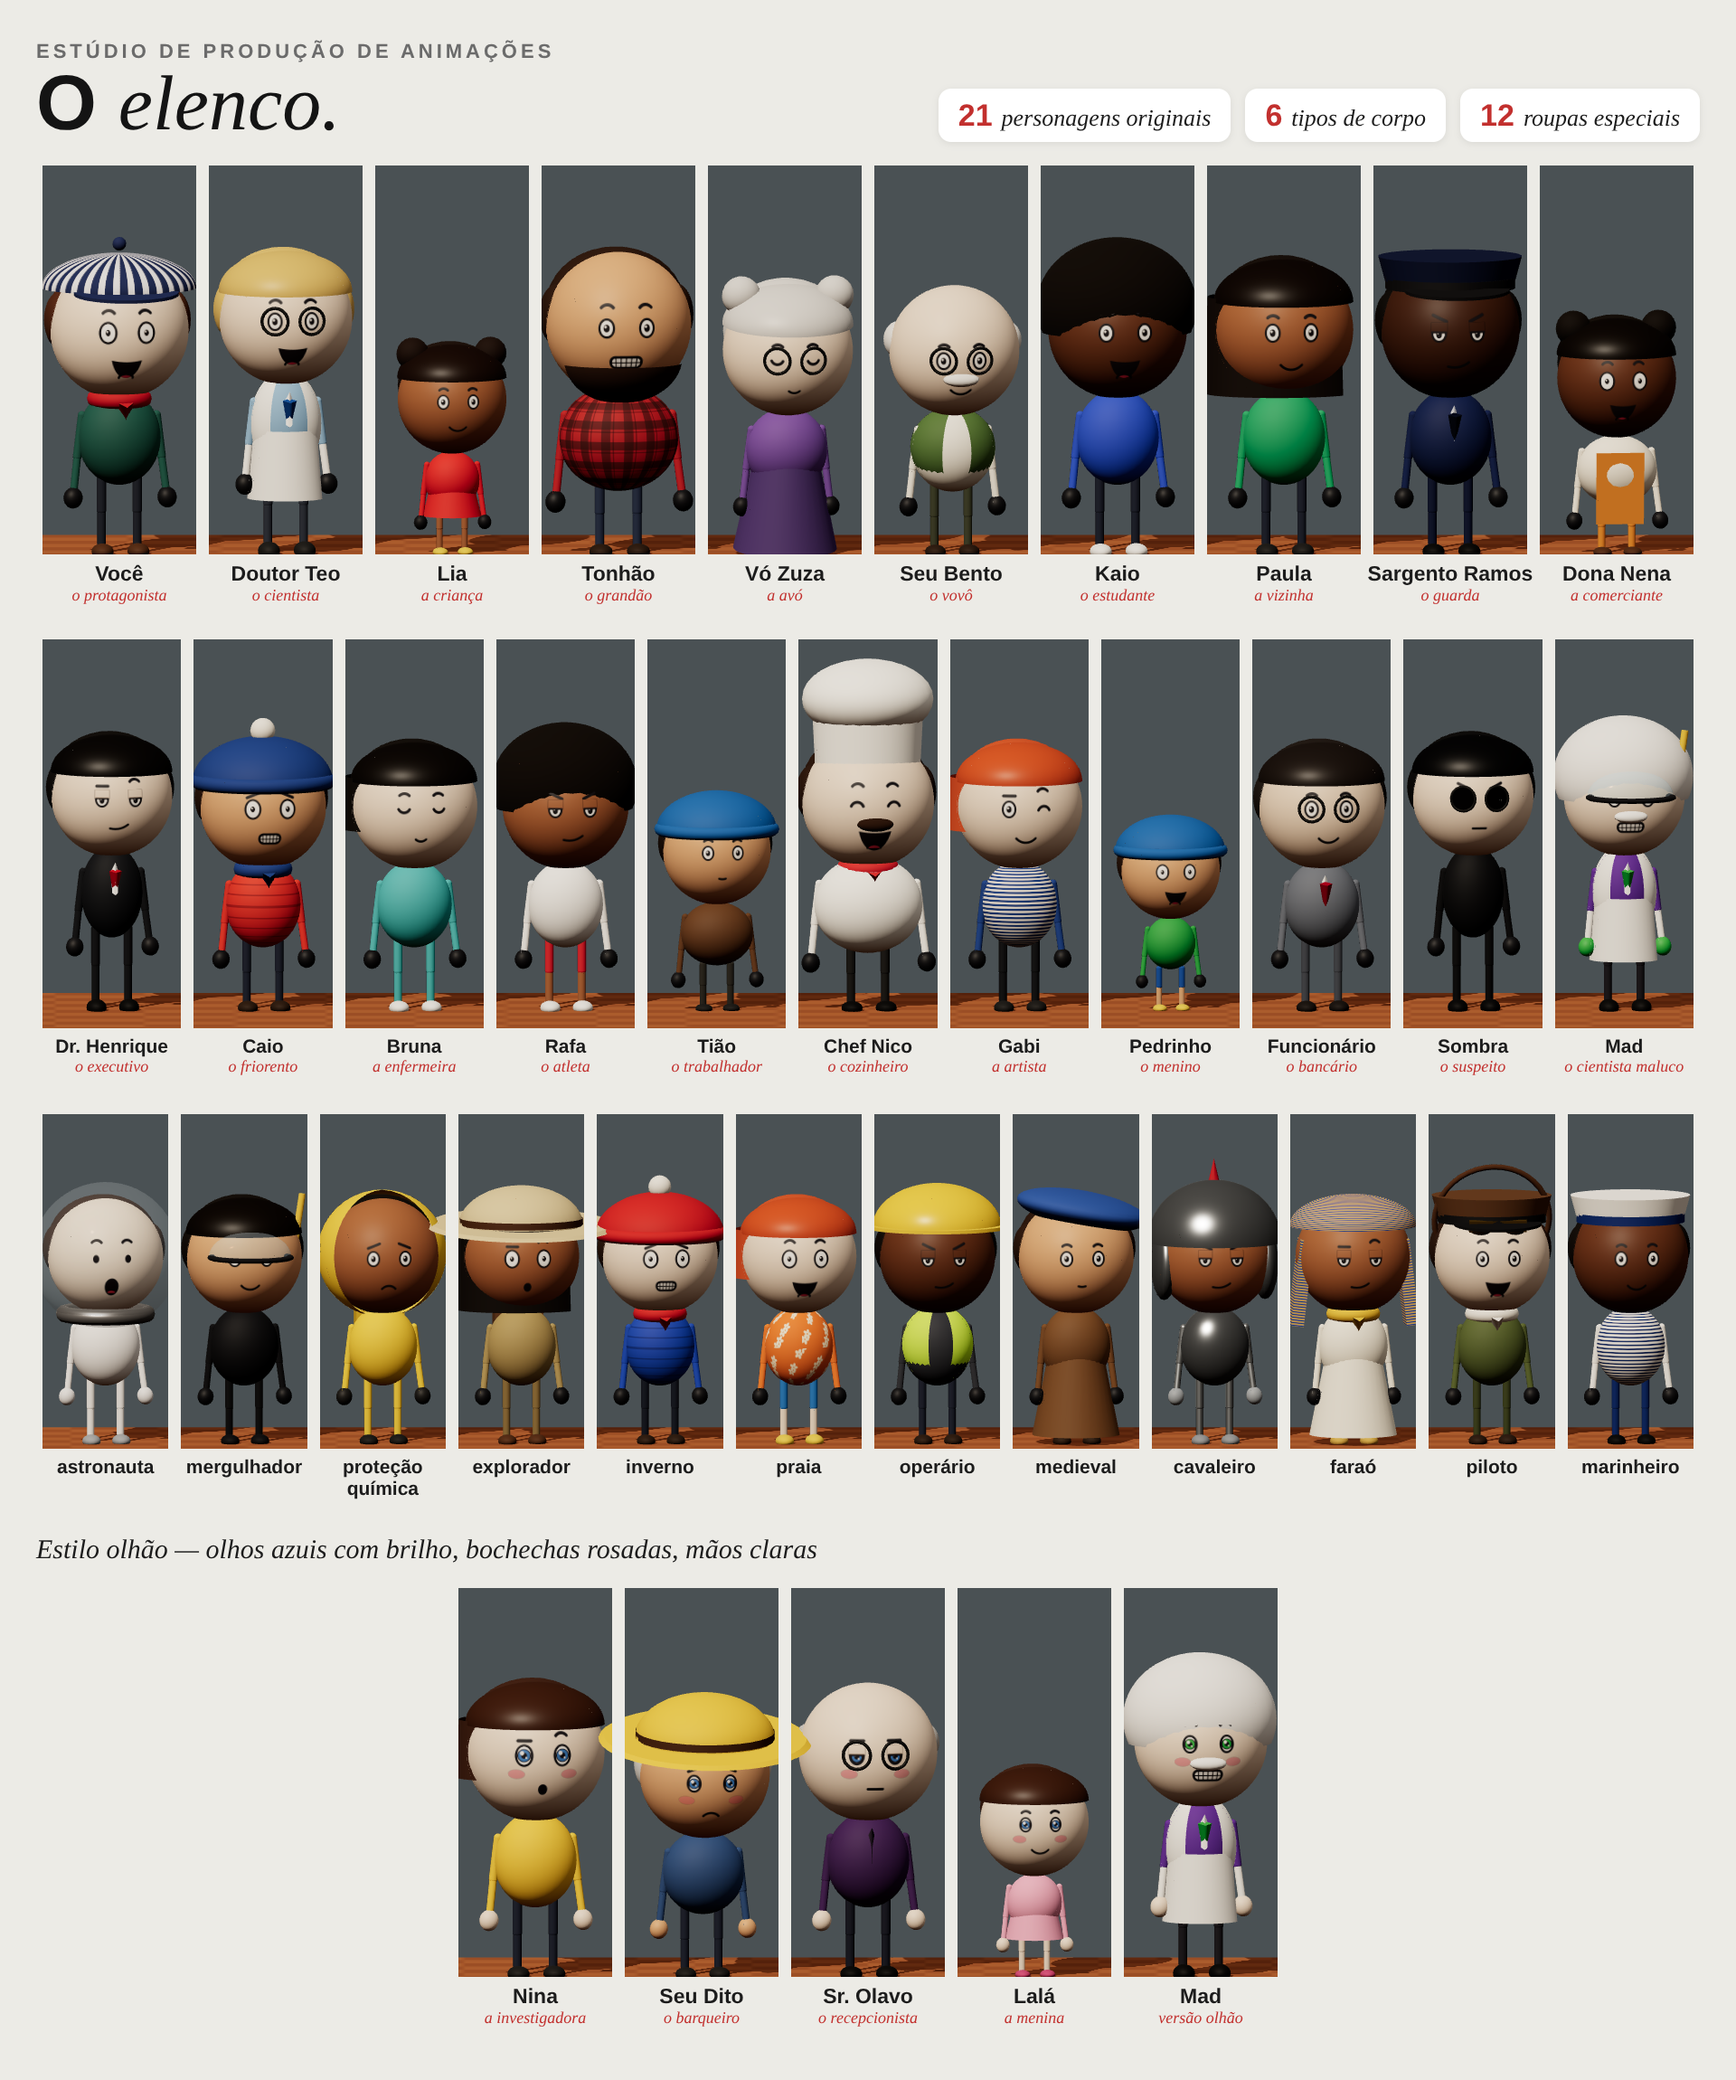
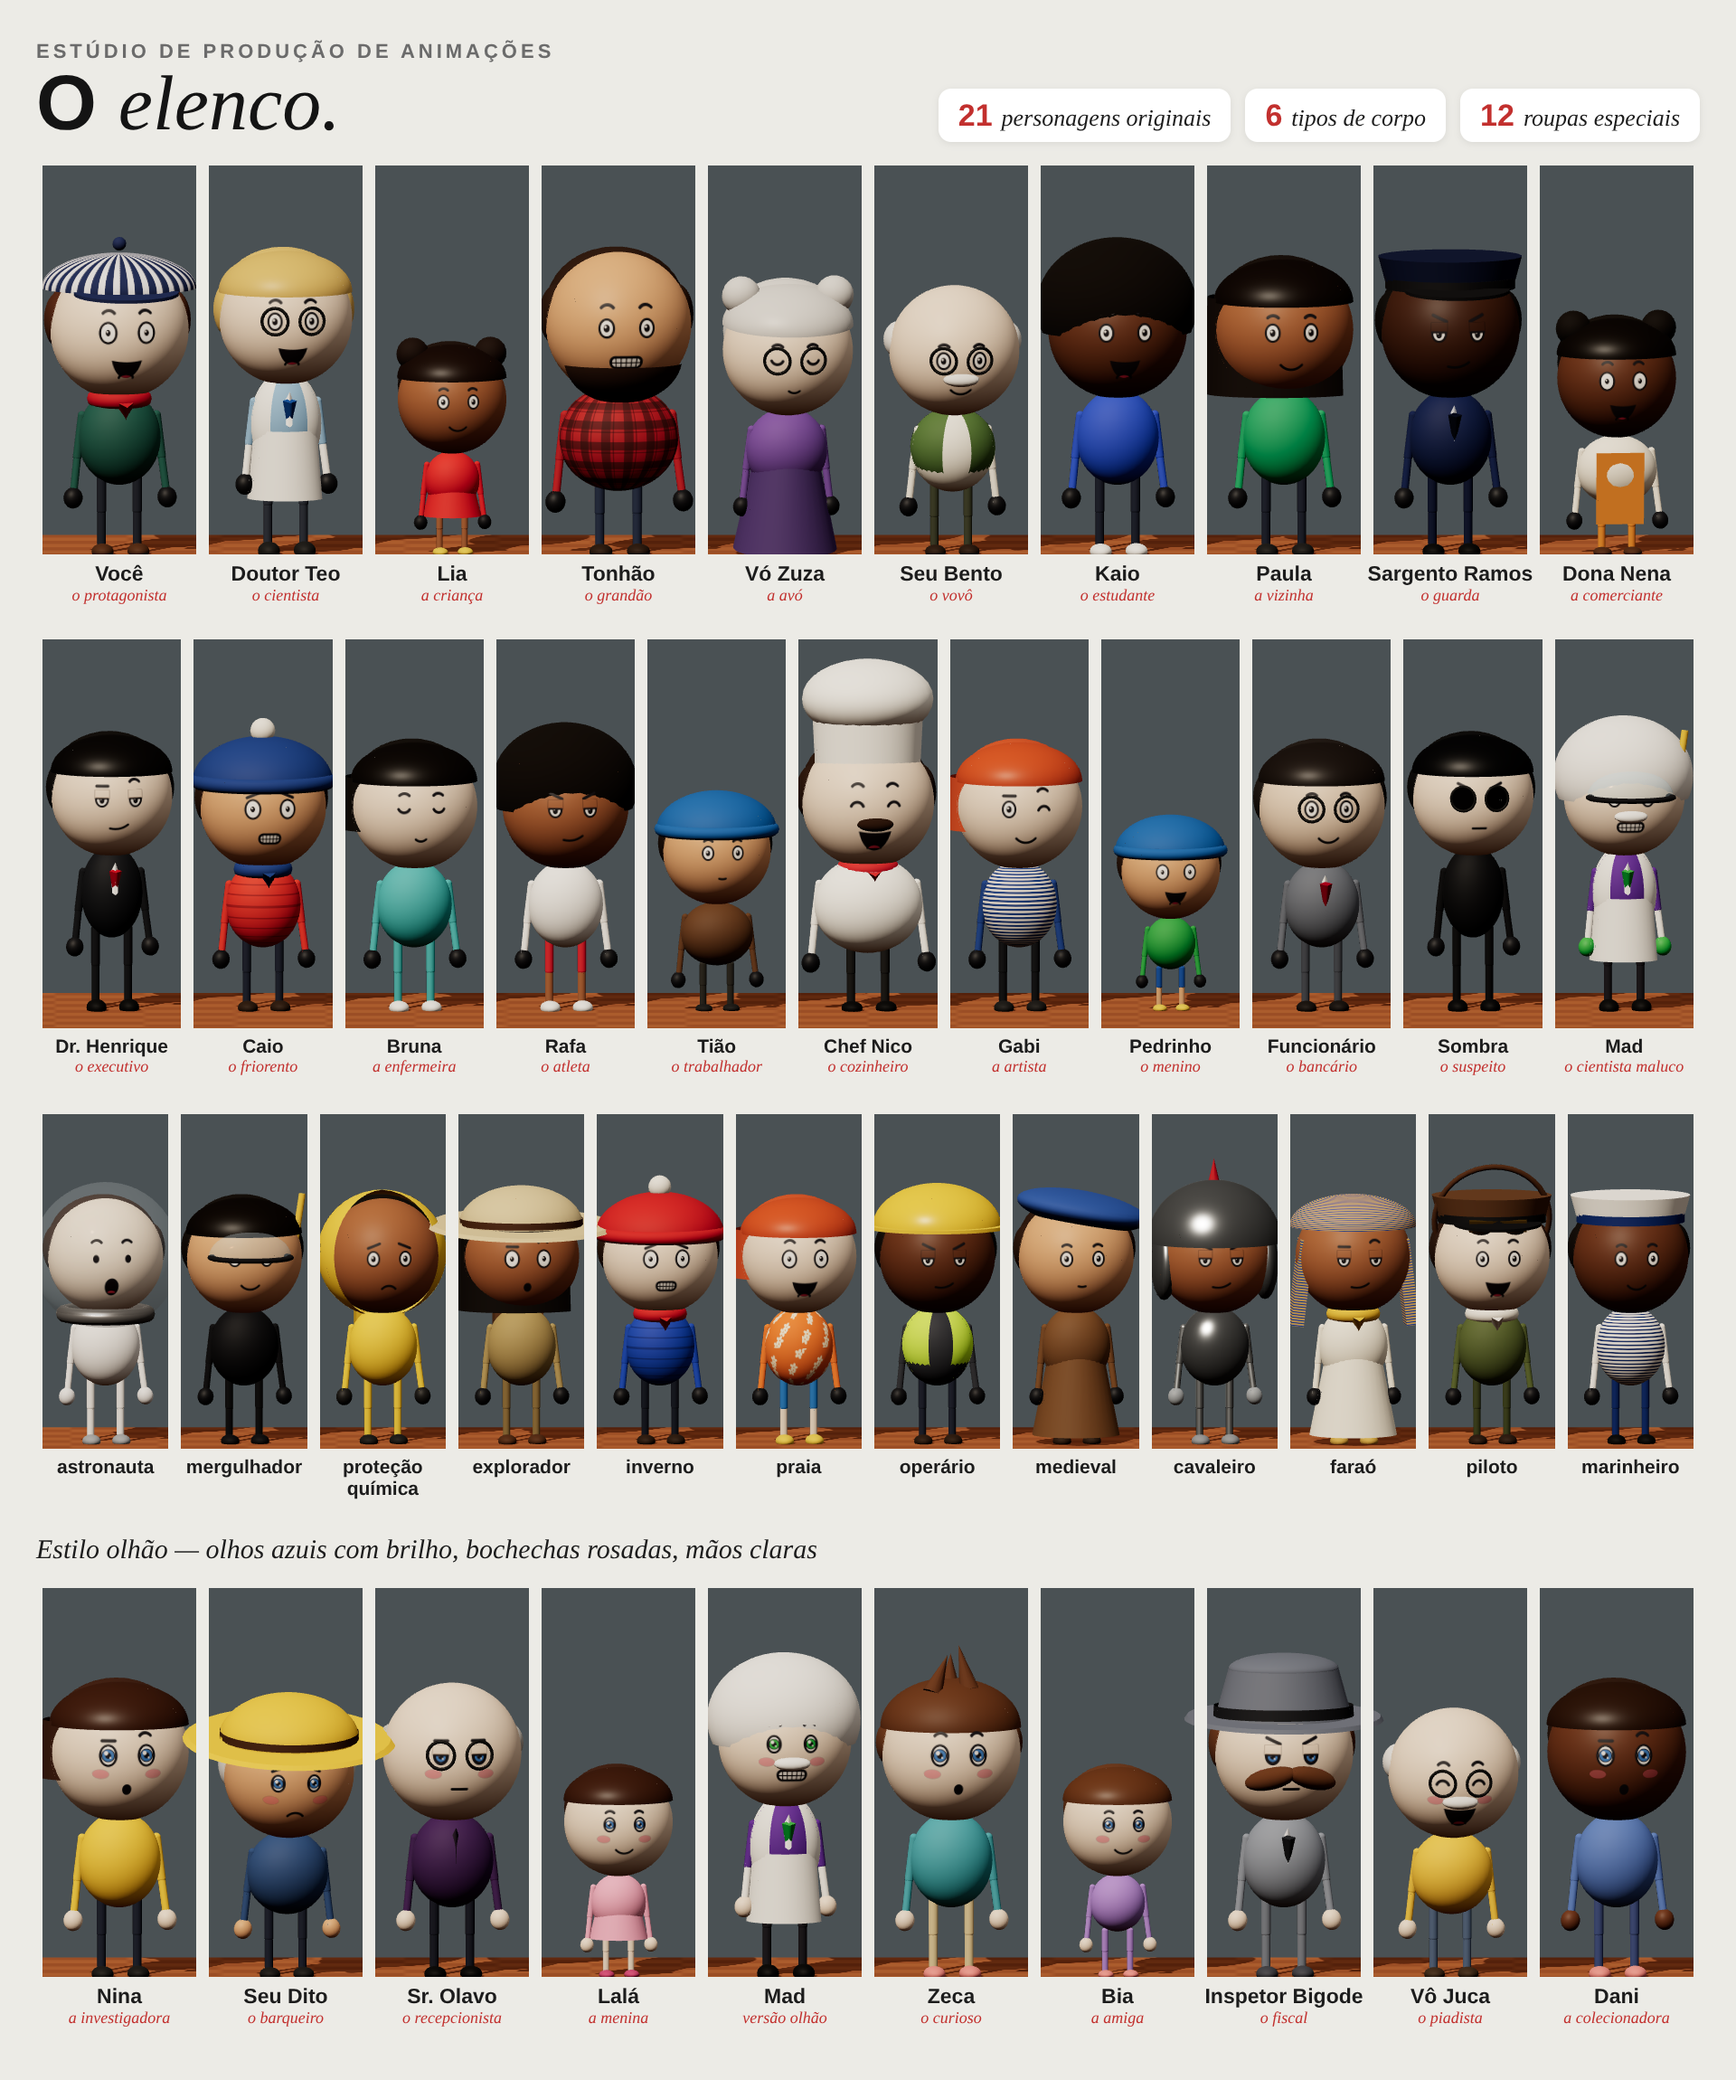
Adiciona topete, chapéu de feltro e bigodão; 5 personagens novos em tons pastel
Novas opções no Look: hairStyle 'topete', hat 'feltro', beard 'bigodao' e
beardColor. Novos personagens no grupo OLHAO: Zeca, Bia, Inspetor Bigode,
Vô Juca e Dani.

Claude-Session: https://claude.ai/code/session_01P7vGK5ehzYiDP7fUjAiZPz

Changed region(s): [[0.0, 0.7409, 1.0, 0.9878]]

diff --git a/estudio-animacoes-3d/src/Character.tsx b/estudio-animacoes-3d/src/Character.tsx
@@ -46,10 +46,10 @@ export function faceAt(t: number, keys: FaceKey[], seed = 0): FaceState {
 // ---------- Visual ----------
 // Corpo: 6 tipos, todos da mesma base (cabeça grande, membros finos).
 export type Body = 'adulto' | 'magro' | 'forte' | 'crianca' | 'idoso' | 'baixo';
-export type HairStyle = 'curto' | 'liso' | 'longo' | 'coque' | 'crespo' | 'careca' | 'chanel' | 'rabo' | 'nenhum';
+export type HairStyle = 'curto' | 'liso' | 'longo' | 'coque' | 'crespo' | 'careca' | 'chanel' | 'rabo' | 'topete' | 'nenhum';
 export type Hat =
   | 'bone' | 'gorro' | 'policia' | 'chef' | 'capacete' | 'explorador' | 'astronauta' | 'cavaleiro'
-  | 'farao' | 'marinheiro' | 'piloto' | 'capuz' | 'boina' | 'touca';
+  | 'farao' | 'marinheiro' | 'piloto' | 'capuz' | 'boina' | 'touca' | 'feltro';
 export type Pattern = 'liso' | 'listras' | 'xadrez' | 'florido' | 'acolchoado';
 
 export type Look = {
@@ -77,7 +77,8 @@ export type Look = {
   cap?: boolean; // atalho antigo para hat: 'bone'
   glasses?: boolean; // atalho antigo para eyewear: 'grau'
   eyewear?: 'grau' | 'escuro' | 'mergulho' | 'aviador';
-  beard?: 'bigode' | 'barba';
+  beard?: 'bigode' | 'barba' | 'bigodao'; // bigodao = bigode grande e cheio
+  beardColor?: string; // cor da barba/bigode (padrão: cor do cabelo)
   metal?: boolean; // armadura
   backpack?: string; // mochila / tanque
   iris?: string; // cor da íris (olhos grandes com brilho); sem isso, olho preto padrão
@@ -249,6 +250,24 @@ const Hair = ({ look }: { look: Look }) => {
           </mesh>
         </>
       );
+    case 'topete':
+      // Cabelo curto com mechas espetadas para cima
+      return (
+        <>
+          {sides(0.75)}
+          {back}
+          <mesh position={[0, 0.18, -0.03]} scale={[1.04, 0.72, 1.02]}>
+            <sphereGeometry args={[0.49, 32, 20, 0, Math.PI * 2, 0, Math.PI / 2]} />
+            <Mat color={c} roughness={0.6} />
+          </mesh>
+          {([[-0.1, 0.58, 0.16, -0.4, 0.3], [0.08, 0.62, 0.1, 0.2, 0.34], [0.0, 0.58, -0.06, -0.05, 0.26]] as const).map(([x, y, z, rz, h], i) => (
+            <mesh key={i} position={[x, y, z]} rotation={[-0.25, 0, rz]} castShadow>
+              <coneGeometry args={[0.075, h, 12]} />
+              {m}
+            </mesh>
+          ))}
+        </>
+      );
     case 'crespo':
       return (
         <mesh position={[0, 0.16, -0.06]} scale={[1.16, 1.0, 1.08]} castShadow>
@@ -414,6 +433,28 @@ const HatMesh = ({ look }: { look: Look }) => {
           ))}
         </>
       );
+    case 'feltro':
+      // Chapéu de feltro: copa com vinco, aba e fita escura
+      return (
+        <>
+          <mesh position={[0, 0.42, -0.02]} scale={[1, 1, 0.92]} castShadow>
+            <cylinderGeometry args={[0.4, 0.5, 0.36, 32]} />
+            <Mat color={c} />
+          </mesh>
+          <mesh position={[0, 0.6, -0.02]} scale={[1, 0.28, 0.92]}>
+            <sphereGeometry args={[0.4, 32, 12, 0, Math.PI * 2, 0, Math.PI / 2]} />
+            <Mat color={c} />
+          </mesh>
+          <mesh position={[0, 0.3, -0.02]} scale={[1, 1, 0.92]}>
+            <cylinderGeometry args={[0.505, 0.51, 0.08, 32, 1, true]} />
+            <Mat color="#26282e" side={THREE.DoubleSide} />
+          </mesh>
+          <mesh position={[0, 0.25, 0]} rotation={[0.06, 0, 0]} castShadow>
+            <cylinderGeometry args={[0.7, 0.72, 0.03, 40]} />
+            <Mat color={c} />
+          </mesh>
+        </>
+      );
     case 'capuz':
       return (
         <mesh position={[0, 0.02, -0.06]} scale={[1.12, 1.1, 1.08]} castShadow>
@@ -482,15 +523,27 @@ const Eyewear = ({ look }: { look: Look }) => {
 
 const Beard = ({ look }: { look: Look }) => {
   if (!look.beard) return null;
+  const bc = look.beardColor ?? look.hair;
+  if (look.beard === 'bigodao')
+    return (
+      <>
+        {[1, -1].map((s) => (
+          <mesh key={s} position={[s * 0.15, -0.15, 0.45]} rotation={[0.3, s * 0.35, s * -0.35]} scale={[1.25, 0.5, 0.55]} castShadow>
+            <sphereGeometry args={[0.16, 20, 12]} />
+            <Mat color={bc} roughness={0.9} />
+          </mesh>
+        ))}
+      </>
+    );
   return look.beard === 'bigode' ? (
     <mesh position={[0, -0.13, 0.47]} rotation={[0.25, 0, 0]} scale={[1, 0.38, 0.5]}>
       <sphereGeometry args={[0.14, 16, 10]} />
-      <Mat color={look.hair} roughness={0.9} />
+      <Mat color={bc} roughness={0.9} />
     </mesh>
   ) : (
     <mesh position={[0, -0.2, 0.12]} scale={[1.0, 0.75, 0.95]} castShadow>
       <sphereGeometry args={[0.44, 32, 16, Math.PI / 2 - 1.2, 2.4, Math.PI * 0.55, Math.PI * 0.45]} />
-      <Mat color={look.hair} roughness={0.9} side={THREE.DoubleSide} />
+      <Mat color={bc} roughness={0.9} side={THREE.DoubleSide} />
     </mesh>
   );
 };

diff --git a/estudio-animacoes-3d/src/personagens.ts b/estudio-animacoes-3d/src/personagens.ts
@@ -120,6 +120,27 @@ export const OLHAO = {
     nome: 'Mad', papel: 'versão olhão', rosto: 'grin',
     look: { skin: PELE.clara, jacket: '#6b3fa0', pants: '#2b2a33', shoes: '#111', gloves: PELE.clara, hair: '#f2f2f2', hairStyle: 'crespo', body: 'magro', coat: '#f4f4f2', shirt: '#ffffff', tie: '#3fae4a', beard: 'bigode', iris: '#3fae4a', cheeks: true },
   },
+  // Turma em tons pastel: topete espetado, chapéu de feltro e bigodão
+  zeca: {
+    nome: 'Zeca', papel: 'o curioso', rosto: 'surprised',
+    look: { skin: PELE.clara, jacket: '#4fa3b0', pants: '#d8c49a', shoes: '#e88a8a', gloves: PELE.clara, hair: '#6b4428', hairStyle: 'topete', iris: OLHO_AZUL, cheeks: true },
+  },
+  bia: {
+    nome: 'Bia', papel: 'a amiga', rosto: 'smile',
+    look: { skin: PELE.clara, jacket: '#a98ad8', pants: '#a98ad8', shoes: '#e88a8a', gloves: PELE.clara, hair: '#6b4428', hairStyle: 'rabo', body: 'crianca', iris: OLHO_AZUL, cheeks: true },
+  },
+  bigode: {
+    nome: 'Inspetor Bigode', papel: 'o fiscal', rosto: 'suspicious',
+    look: { skin: PELE.clara, jacket: '#8b94a3', pants: '#7a8290', shoes: '#4a4e58', gloves: PELE.clara, hair: '#6b4428', hat: 'feltro', hatColor: '#6f7787', beard: 'bigodao', shirt: '#e9ecf2', tie: '#33363d', iris: OLHO_AZUL, cheeks: true },
+  },
+  juca: {
+    nome: 'Vô Juca', papel: 'o piadista', rosto: 'laugh',
+    look: { skin: PELE.clara, jacket: '#f0be3c', pants: '#5a6d8a', shoes: '#4a3a2a', gloves: PELE.clara, hair: '#e6e6e6', hairStyle: 'careca', beard: 'bigode', body: 'idoso', eyewear: 'grau', iris: OLHO_AZUL, cheeks: true },
+  },
+  dani: {
+    nome: 'Dani', papel: 'a colecionadora', rosto: 'curious',
+    look: { skin: PELE.escura, jacket: '#5f7fc2', pants: '#4a5a8a', pattern: 'liso', shoes: '#e88a8a', gloves: PELE.escura, hair: '#3a2416', hairStyle: 'rabo', iris: OLHO_AZUL, cheeks: true },
+  },
 } satisfies Record<string, Membro>;
 
 export const ROUPAS = {
